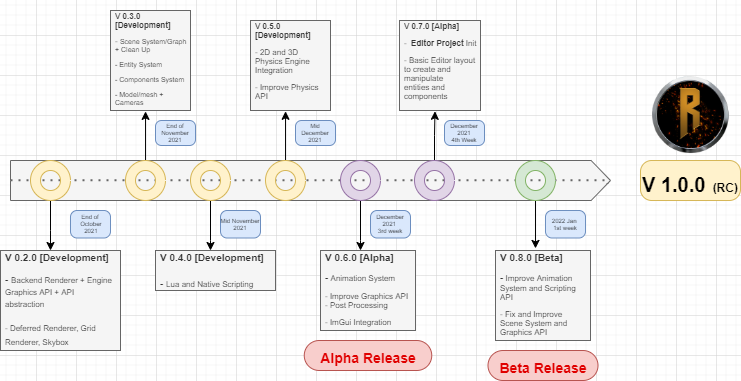
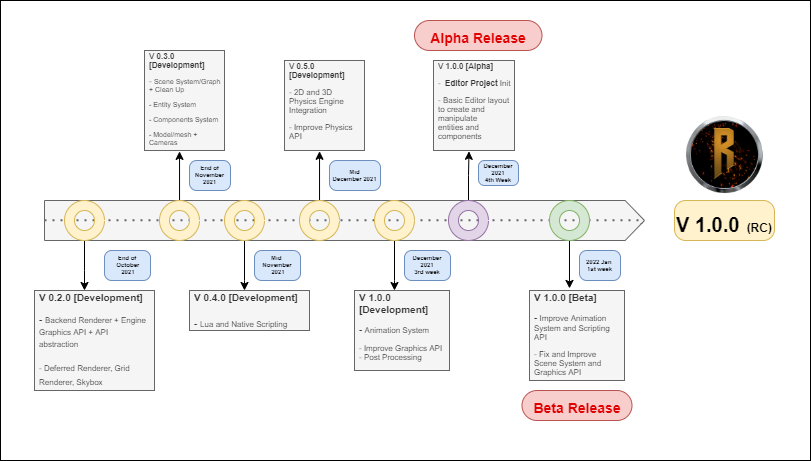
[Docs] Updated RoadMap and Versioning convention;

Changed region(s): [[0.0, 0.0, 1.0, 1.0], [0.0, 0.0, 0.031, 0.0289]]

diff --git a/Engine/src/Razix/Graphics/API/Texture.h b/Engine/src/Razix/Graphics/API/Texture.h
@@ -116,10 +116,24 @@ namespace Razix {
         public:
             virtual ~Texture() {}
 
+
             virtual void Bind(uint32_t slot = 0) const = 0;
             virtual void Unbind(uint32_t = 0) const = 0;
 
             virtual void SetData(const void* pixels) = 0;
+
+
+        };
+
+        class RAZIX_API Texture2D : public Texture
+        {
+        public:
+            static void Texture2D* CreateTexture(std::string name, std::string pathName, TextureLoadOptions loadOptions = = TextureLoadOptions(), TextureParameters parameters = TextureParameters());
+
+            void Bind(uint32_t slot = 0) const override;
+            void Unbind(uint32_t = 0) const override;
+
+            void SetData(const void* pixels) override;
 
         };
 

diff --git a/Engine/src/Razix/Graphics/API/Texture.cpp b/Engine/src/Razix/Graphics/API/Texture.cpp
@@ -4,5 +4,18 @@
 
 namespace Razix {
     namespace Graphics {
+
+        void Texture2D::Bind(uint32_t slot /*= 0*/) const {
+            throw std::logic_error("The method or operation is not implemented.");
+        }
+
+        void Texture2D::Unbind(uint32_t /*= 0*/) const {
+            throw std::logic_error("The method or operation is not implemented.");
+        }
+
+        void Texture2D::SetData(const void* pixels) {
+            throw std::logic_error("The method or operation is not implemented.");
+        }
+
     }
 }
